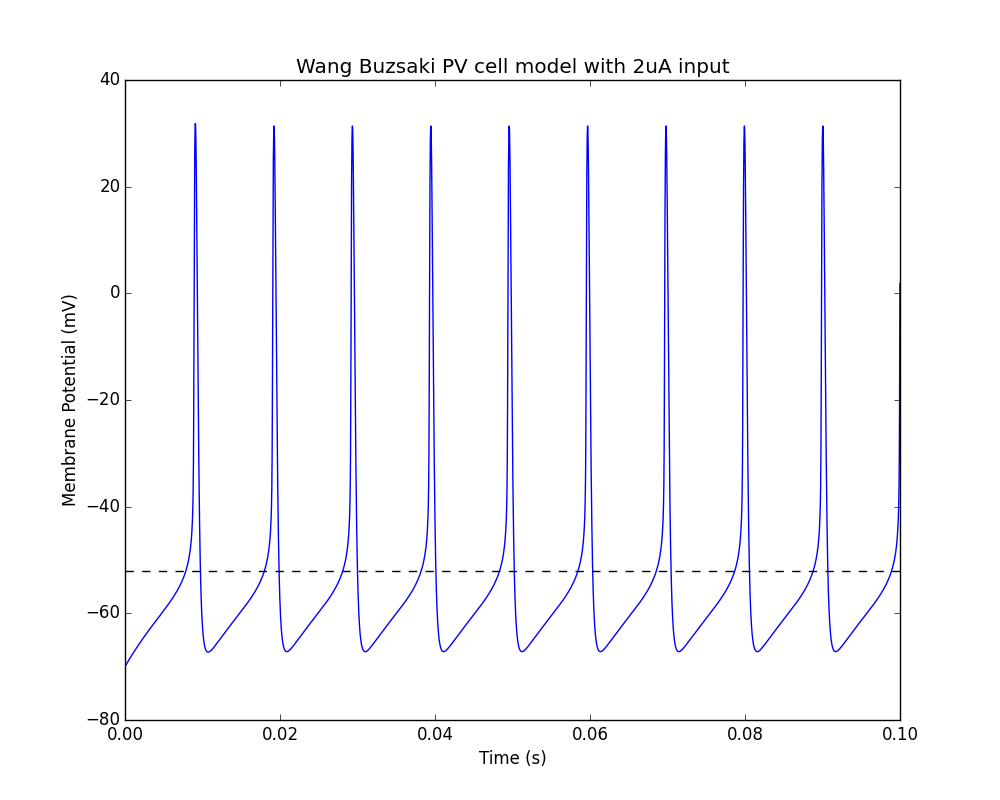
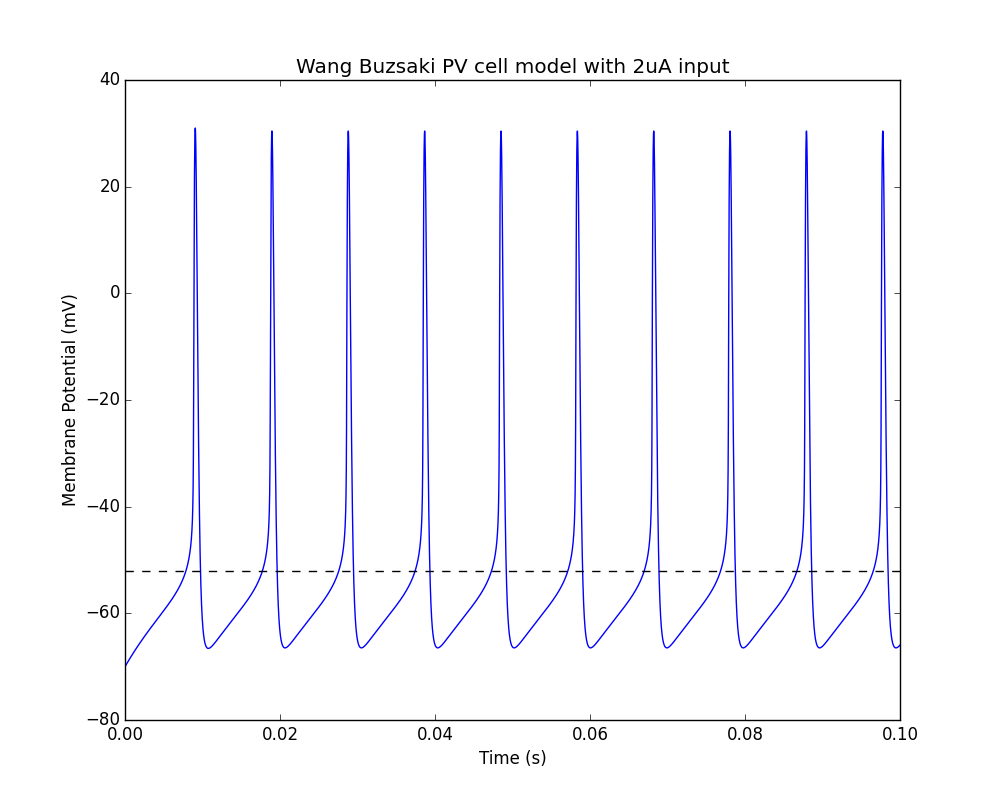
dt changed

diff --git a/Brian/WangBuzsaki.py b/Brian/WangBuzsaki.py
@@ -1,58 +1,49 @@
 from brian import *
-import matplotlib.pyplot as plt
-import sys
 
-defaultclock.dt=0.01*ms
+def main(dt):
+    '''
+    Modified (in order to set different dt) version of http://www.briansimulator.org/docs/examples-frompapers_Wang_Buszaki_1996.html
+    :param dt: time step of numerical solver [ms]
+    :return M: StateMonitor with membrane potential values
+    '''
 
-Cm = 1 * uF  # /cm**2
-Iapp = 2 * uA
-gL = 0.1 * msiemens
-EL = -65 * mV
-ENa = 55 * mV
-EK = -90 * mV
-gNa = 35 * msiemens
-gK = 9 * msiemens
+    Cm = 1 * uF  # /cm**2
+    Iapp = 2 * uA
+    gL = 0.1 * msiemens
+    EL = -65 * mV
+    ENa = 55 * mV
+    EK = -90 * mV
+    gNa =  35 * msiemens
+    gK =  9 * msiemens
 
-eqs='''
-dv/dt = (-gNa*m**3*h*(v-ENa) -gK*n**4*(v-EK) -gL*(v-EL) + Iapp) / Cm : volt
-m = alpham/(alpham+betam) : 1
-alpham = -0.1/mV*(v+35*mV)/(exp(-0.1/mV*(v+35*mV))-1)/ms : Hz
-betam = 4*exp(-(v+60*mV)/(18*mV))/ms : Hz
-dh/dt = 5*(alphah*(1-h)-betah*h) : 1
-alphah = 0.07*exp(-(v+58*mV)/(20*mV))/ms : Hz
-betah = 1./(exp(-0.1/mV*(v+28*mV))+1)/ms : Hz
-dn/dt = 5*(alphan*(1-n)-betan*n) : 1
-alphan = -0.01/mV*(v+34*mV)/(exp(-0.1/mV*(v+34*mV))-1)/ms : Hz
-betan = 0.125*exp(-(v+44*mV)/(80*mV))/ms : Hz
-'''
+    eqs='''
+    dv/dt = (-gNa*m**3*h*(v-ENa) -gK*n**4*(v-EK) -gL*(v-EL) + Iapp) / Cm : volt
+    m = alpham/(alpham+betam) : 1
+    alpham = -0.1/mV*(v+35*mV)/(exp(-0.1/mV*(v+35*mV))-1)/ms : Hz
+    betam = 4*exp(-(v+60*mV)/(18*mV))/ms : Hz
+    dh/dt = 5*(alphah*(1-h)-betah*h) : 1
+    alphah = 0.07*exp(-(v+58*mV)/(20*mV))/ms : Hz
+    betah = 1./(exp(-0.1/mV*(v+28*mV))+1)/ms : Hz
+    dn/dt = 5*(alphan*(1-n)-betan*n) : 1
+    alphan = -0.01/mV*(v+34*mV)/(exp(-0.1/mV*(v+34*mV))-1)/ms : Hz
+    betan = 0.125*exp(-(v+44*mV)/(80*mV))/ms : Hz
+    '''
 
-neuron = NeuronGroup(1, eqs)
-neuron.v = -70 * mV
-neuron.h = 1
-M = StateMonitor(neuron, 'v', record=0)
+    neuron = NeuronGroup(1, eqs)
+    neuron.v = -70 * mV
+    neuron.h = 1
+    M = StateMonitor(neuron, 'v', record=0)
 
-run(100*ms)
+    defaultclock.dt=dt*ms
 
-if not '-nogui' in sys.argv:
-    fig = plt.figure(figsize=(10, 8))
-    ax = fig.add_subplot(1, 1, 1)
-    ax.plot(M.times, M[0]/mV)
-    ax.plot([0, 0.1], [-52, -52], 'k--')
-    ax.set_xlabel("Time (s)")
-    ax.set_xlim([0, 0.1])
-    ax.set_ylabel("Membrane Potential (mV)")
-    ax.set_title('Wang Buzsaki PV cell model with 2uA input')
-    plt.show()
+    run(100*ms)
 
-#### save trace to file ####
-save = True
-if save:
-    filename = 'wangbuzsaki.dat'
-    outfile = open(filename, 'w')
-    t = M.times.tolist()
-    v = M[0].tolist()
-    print("Saving results to: %s" %filename)
-    for i in range(len(t)):
-        line = '%s\t%s\n'%(t[i], v[i])
-        outfile.write(line)
-    outfile.close()
+    return M
+
+
+if __name__ == '__main__':
+    
+    dt = 0.01
+    M = main(dt)
+
+

diff --git a/Brian/testWangBuzsaki.py b/Brian/testWangBuzsaki.py
@@ -1,0 +1,35 @@
+from brian import *
+import matplotlib.pyplot as plt
+import sys
+from WangBuzsaki import main
+
+
+if __name__ == '__main__':
+    
+    dt = 0.001
+    M = main(dt)
+
+    # save trace to file
+    if not '-nogui' in sys.argv:
+        fig = plt.figure(figsize=(10, 8))
+        ax = fig.add_subplot(1, 1, 1)
+        ax.plot(M.times, M[0]/mV)
+        ax.plot([0, 0.1], [-52, -52], 'k--')
+        ax.set_xlabel("Time (s)")
+        ax.set_xlim([0, 0.1])
+        ax.set_ylabel("Membrane Potential (mV)")
+        ax.set_title('Wang Buzsaki PV cell model with 2uA input')
+        plt.show()
+
+    # save trace to file
+    save = True
+    if save:
+        filename = 'wangbuzsaki.dat'
+        outfile = open(filename, 'w')
+        t = M.times.tolist()
+        v = M[0].tolist()
+        print("Saving results to: %s" %filename)
+        for i in range(len(t)):
+            line = '%s\t%s\n'%(t[i], v[i])
+            outfile.write(line)
+        outfile.close()
